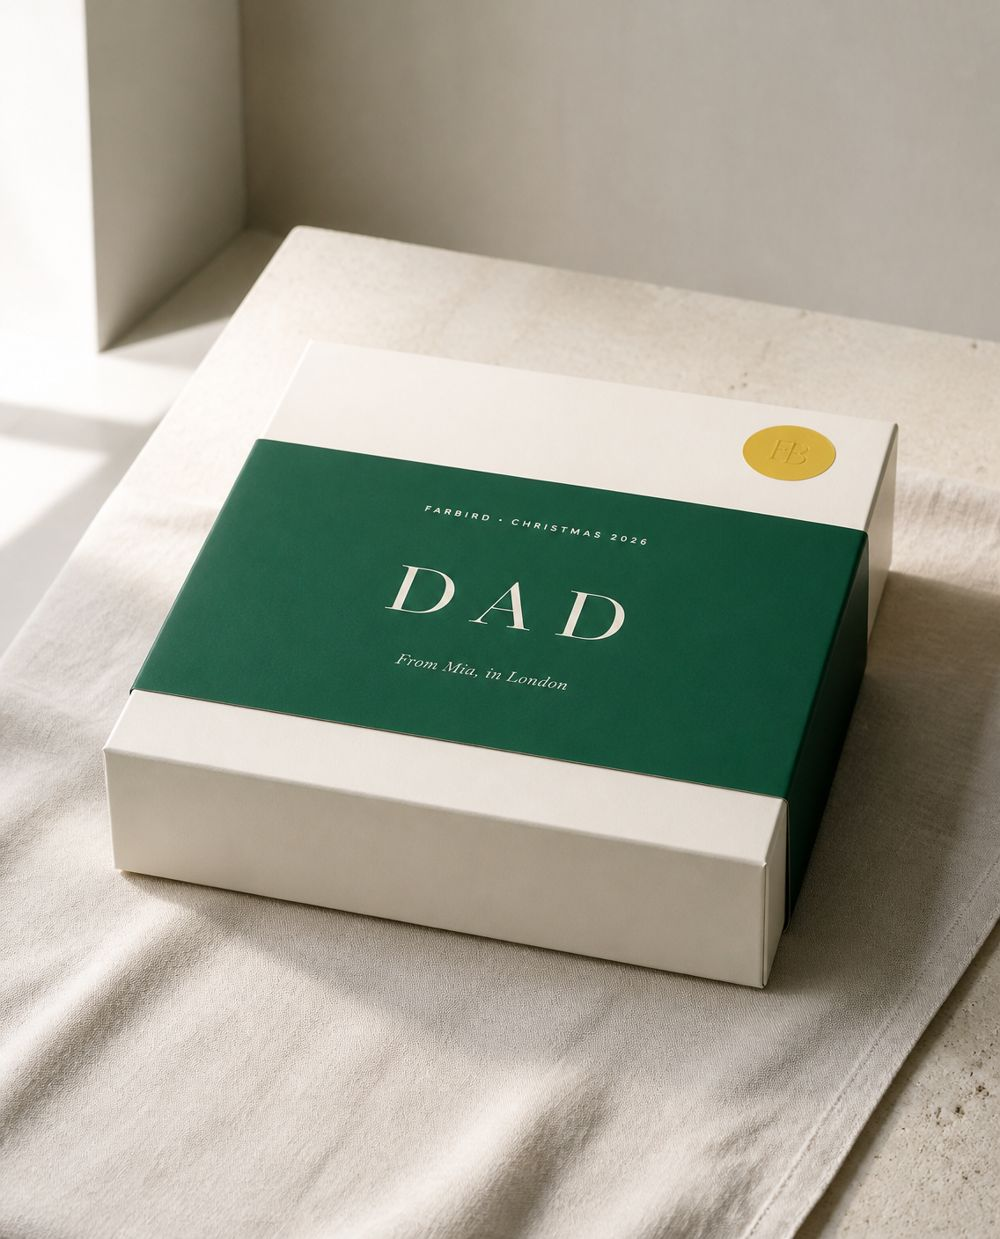
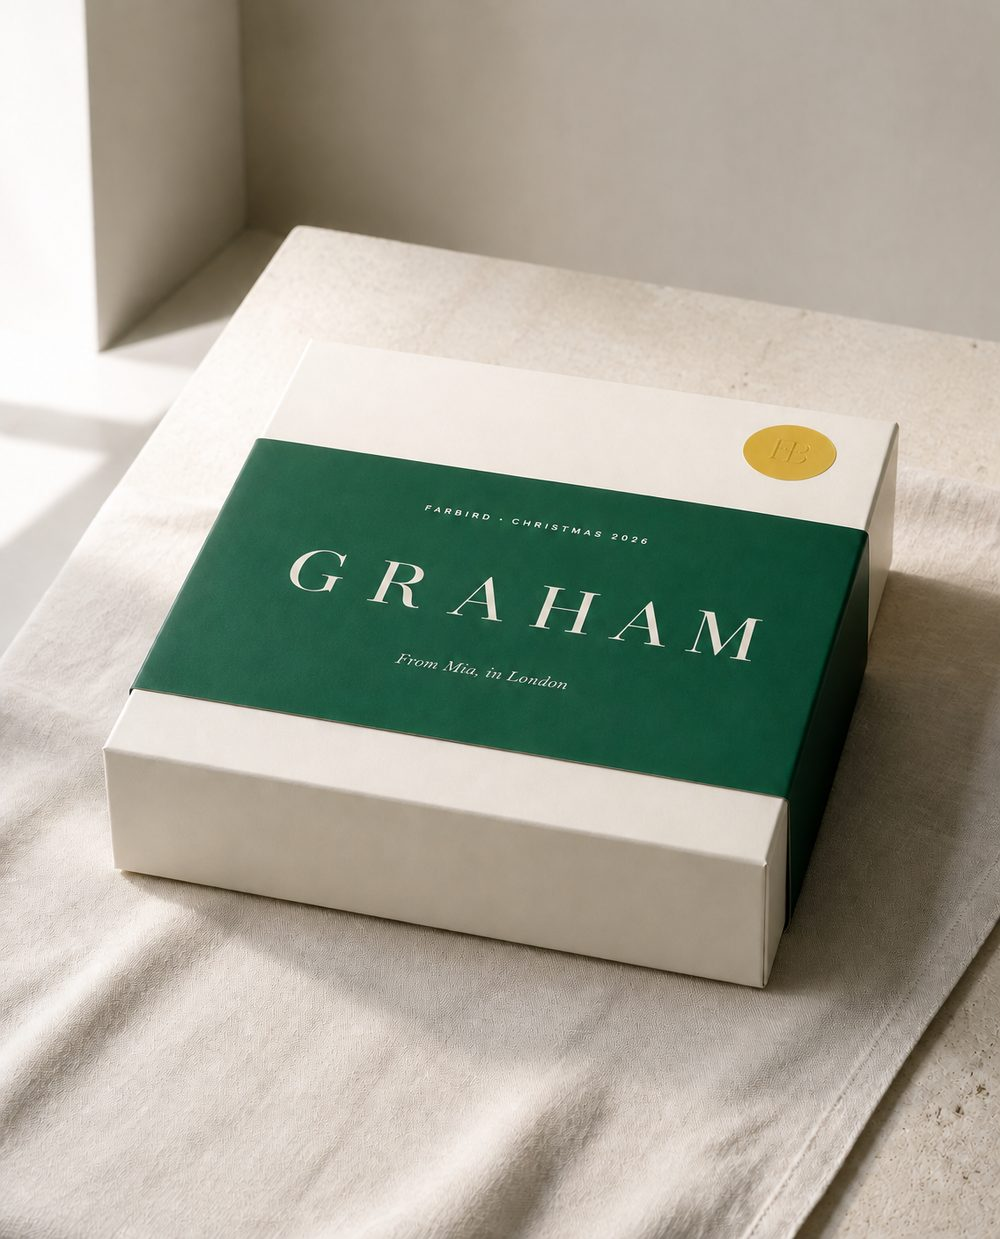
Waitlist: Graham box images, Peek inside on Mum, Dad and Sibling boxes
Claude-Session: https://claude.ai/code/session_017ST9uELwwz9CDeqc5T3KFA

diff --git a/index.html b/index.html
@@ -288,8 +288,8 @@
       <p class="sub">Each box is built around one person: one thing that's trending overseas right now, plus treats from home. No browsing forty options at 11pm.</p>
       <ul class="boxgrid">
         <li><figure><div class="shot"><div class="tile" style="background:var(--pohutukawa);color:var(--ivory)">MUM</div><img src="img/box-mum.jpg" alt="The Mum box: a red sleeve printed with the name Sandra on an ivory box" loading="lazy" onerror="this.remove()"><img class="open" src="img/box-mum-open.jpg" alt="" loading="lazy" onerror="this.remove()"><span class="peek">Peek inside</span></div><h3>Mum</h3><p>The one she'll show everyone at the bach.</p></figure></li>
-        <li><figure><div class="shot"><div class="tile" style="background:var(--bush);color:var(--ivory)">DAD</div><img src="img/box-dad.jpg" alt="The Dad box: a bush-green sleeve on an ivory box" loading="lazy" onerror="this.remove()"></div><h3>Dad</h3><p>Better than socks. Still might include socks.</p></figure></li>
-        <li><figure><div class="shot"><div class="tile" style="background:var(--kowhai);color:var(--ink)">KATE</div><img src="img/box-sibling.jpg" alt="The Sibling box: a kōwhai-yellow sleeve on an ivory box" loading="lazy" onerror="this.remove()"></div><h3>The sibling</h3><p>Finally, a present that makes your sister look bad.</p></figure></li>
+        <li><figure><div class="shot"><div class="tile" style="background:var(--bush);color:var(--ivory)">GRAHAM</div><img src="img/box-dad.jpg" alt="The Dad box: a bush-green sleeve printed with the name Graham on an ivory box" loading="lazy" onerror="this.remove()"><img class="open" src="img/box-dad-open.jpg" alt="" loading="lazy" onerror="this.remove()"><span class="peek">Peek inside</span></div><h3>Dad</h3><p>Better than socks. Still might include socks.</p></figure></li>
+        <li><figure><div class="shot"><div class="tile" style="background:var(--kowhai);color:var(--ink)">KATE</div><img src="img/box-sibling.jpg" alt="The Sibling box: a kōwhai-yellow sleeve printed with the name Kate on an ivory box" loading="lazy" onerror="this.remove()"><img class="open" src="img/box-sibling-open.jpg" alt="" loading="lazy" onerror="this.remove()"><span class="peek">Peek inside</span></div><h3>The sibling</h3><p>Finally, a present that makes your sister look bad.</p></figure></li>
         <li><figure><div class="shot"><div class="tile" style="background:var(--musk);color:var(--ink)">AROHA</div><img src="img/box-partner.jpg" alt="The Partner box: a musk-pink sleeve on an ivory box" loading="lazy" onerror="this.remove()"><img class="open" src="img/box-partner-open.jpg" alt="" loading="lazy" onerror="this.remove()"><span class="peek">Peek inside</span></div><h3>Long-distance partner</h3><p>Because a video call isn't a present.</p></figure></li>
         <li><figure><div class="shot"><div class="tile" style="background:var(--jandal);color:var(--ivory)">NICO</div><img src="img/box-kids.jpg" alt="The Kids box: a jandal-blue sleeve on an ivory box" loading="lazy" onerror="this.remove()"><img class="open" src="img/box-kids-open.jpg" alt="" loading="lazy" onerror="this.remove()"><span class="peek">Peek inside</span></div><h3>The kids</h3><p>Nieces, nephews, godkids. Instant favourite uncle.</p></figure></li>
       </ul>
